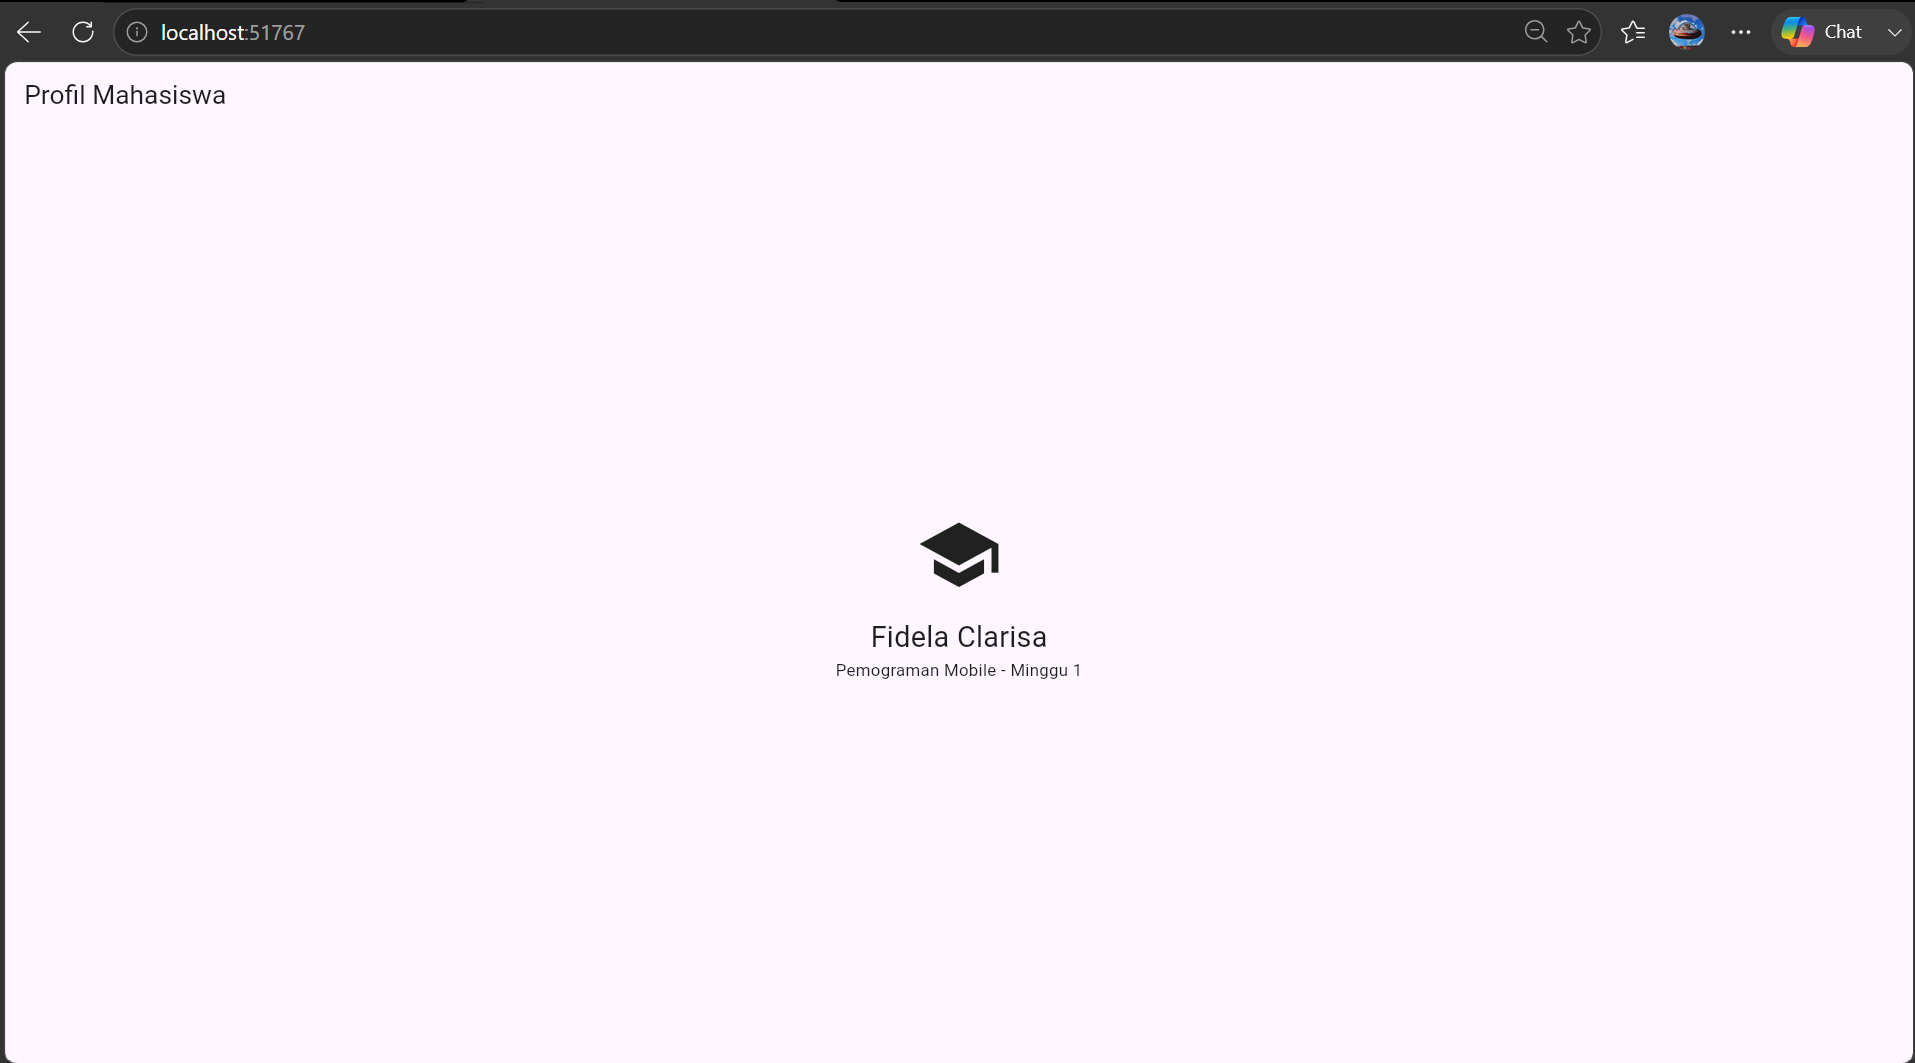
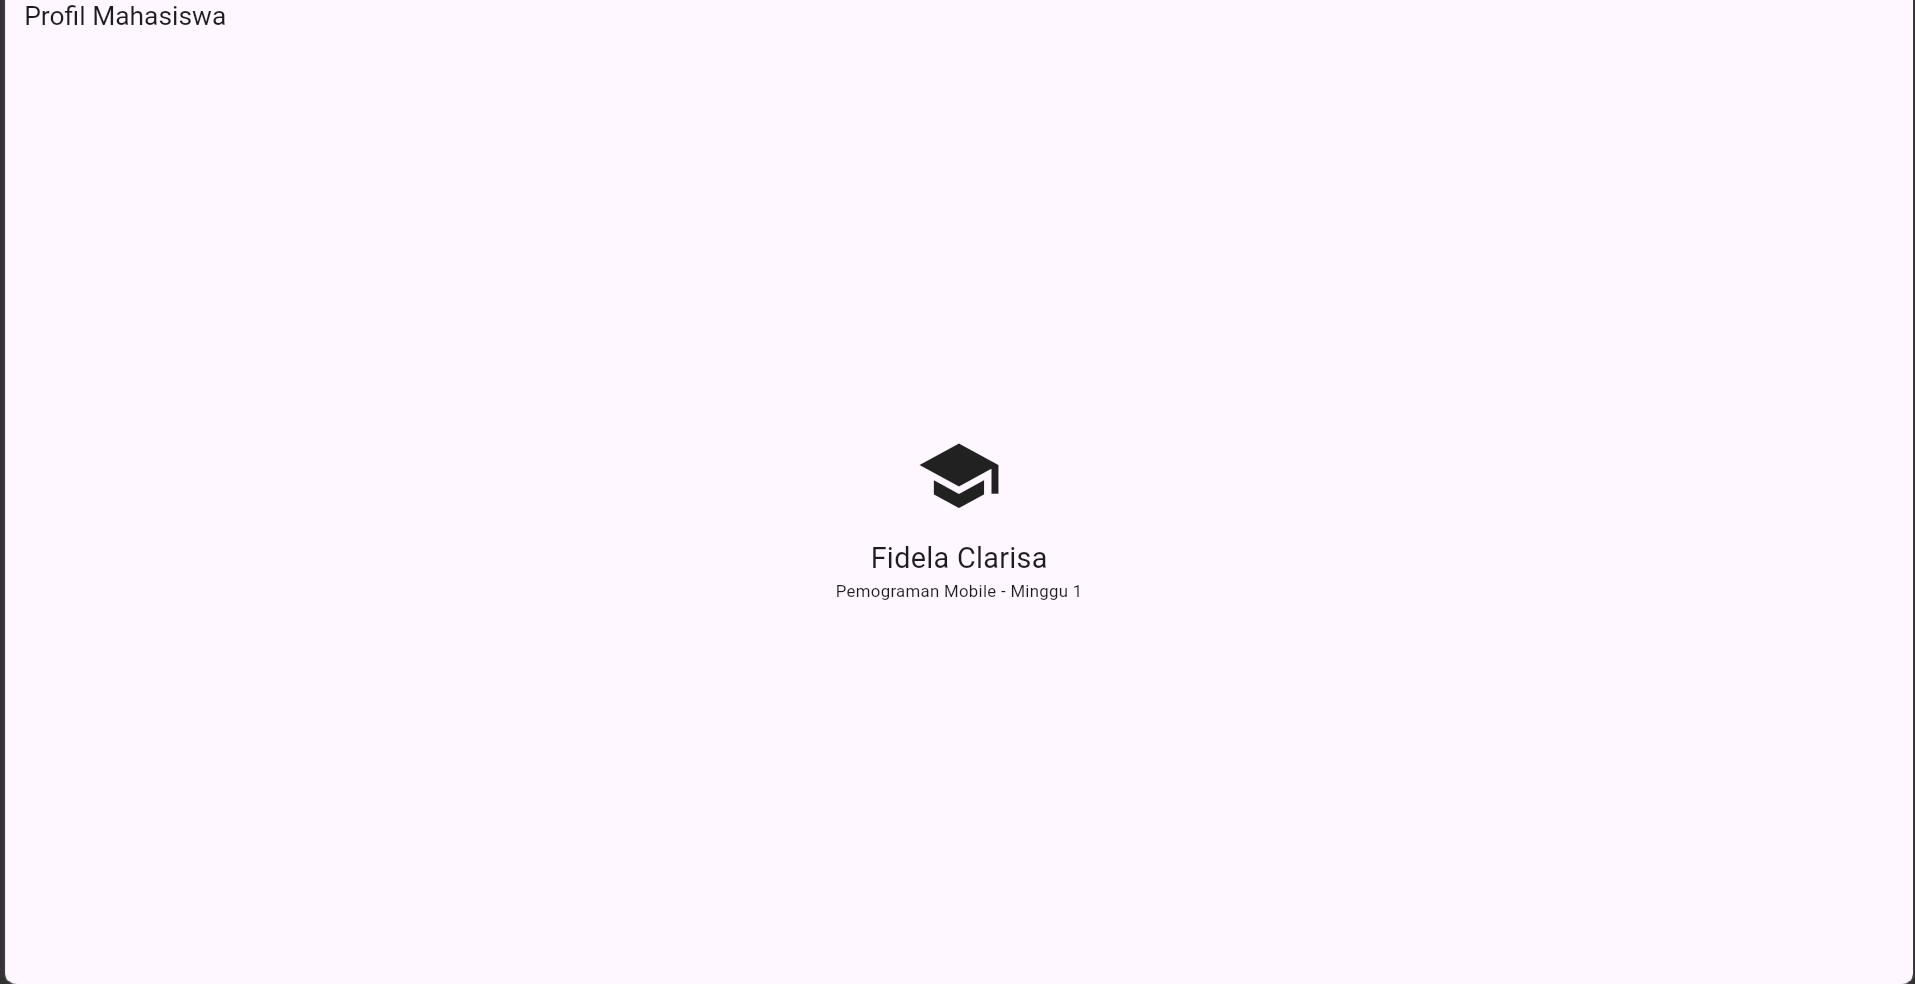
feat:  Update Screenshot

Changed region(s): [[0.0, 0.0, 1.0, 0.122], [0.4313, 0.4573, 0.5546, 0.6402]]

diff --git a/01-week-1-mobile-development-ecosystem-flutter-refresh/README.md b/01-week-1-mobile-development-ecosystem-flutter-refresh/README.md
@@ -21,7 +21,7 @@ The application displays a student profile page consisting of:
 
 ## Screenshot
 #### Flutter Doctor
-![Flutter Doctor](screenshots/Screenshot-Flutter%20Doctor.jpeg)
+![Flutter Doctor](screenshots/Screenshot-Flutter%20Doctor.png)
 
 #### Flutter Device
 ![Flutter Doctor](screenshots/Screenshot-Flutter%20Devices.png)
@@ -34,3 +34,6 @@ The application displays a student profile page consisting of:
 - r (Hot reload) = memperbarui perubahan kode dengan lebih cepat tanpa memulai ulang aplikasi secara keseluruhan. Pada gambar diatas, proses hot reload membutuhkan waktu sekitar 668–925 ms.
 
 - R (Hot Restart) = menjalankan ulang aplikasi dari awal sehingga state sementara aplikasi akan di-reset, dan pada proses hot restart membutuhkan waktu sekitar 1.1 detik.
+
+#### Reflection
+[Week 01 Reflection](../notes/reflections/Week01.md).
